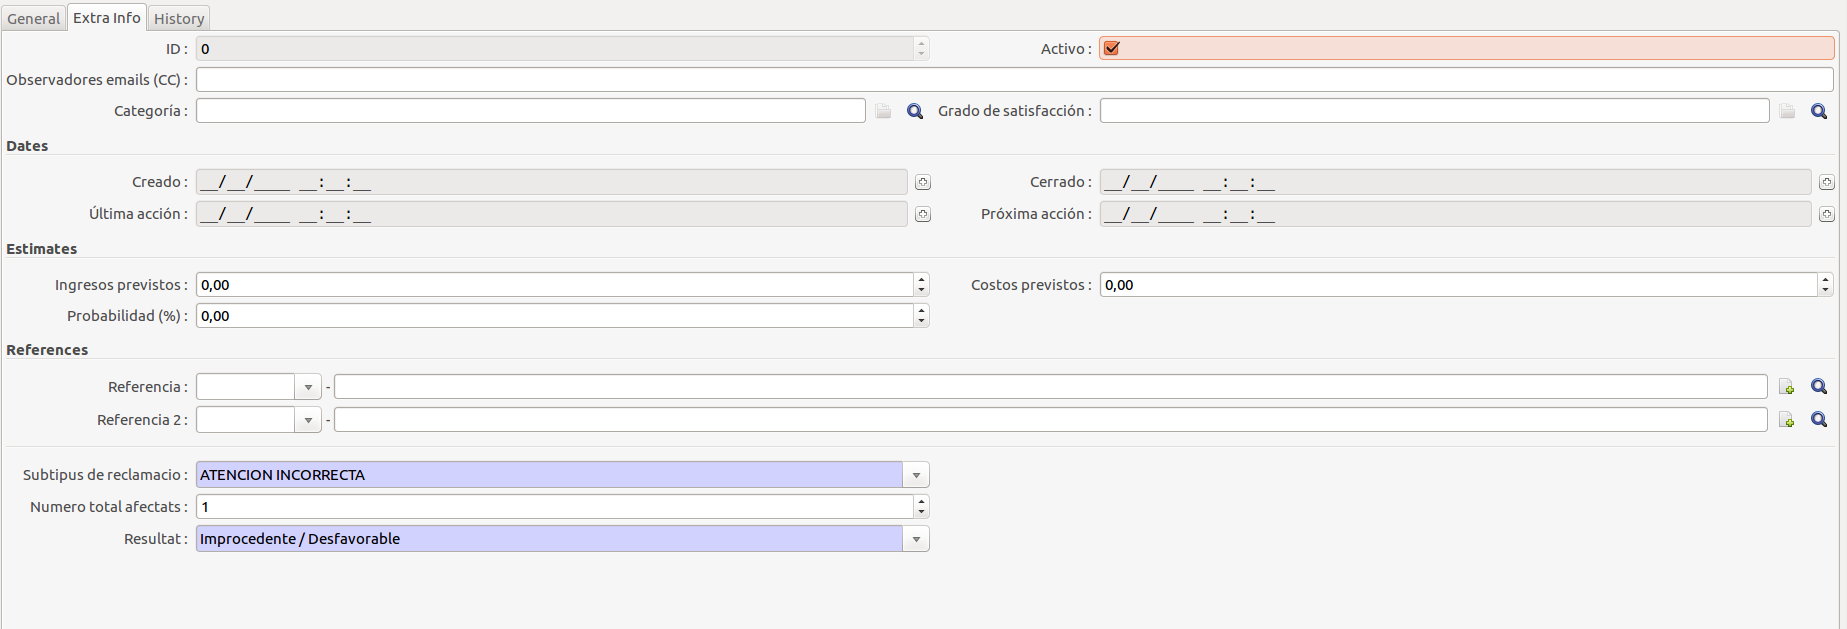
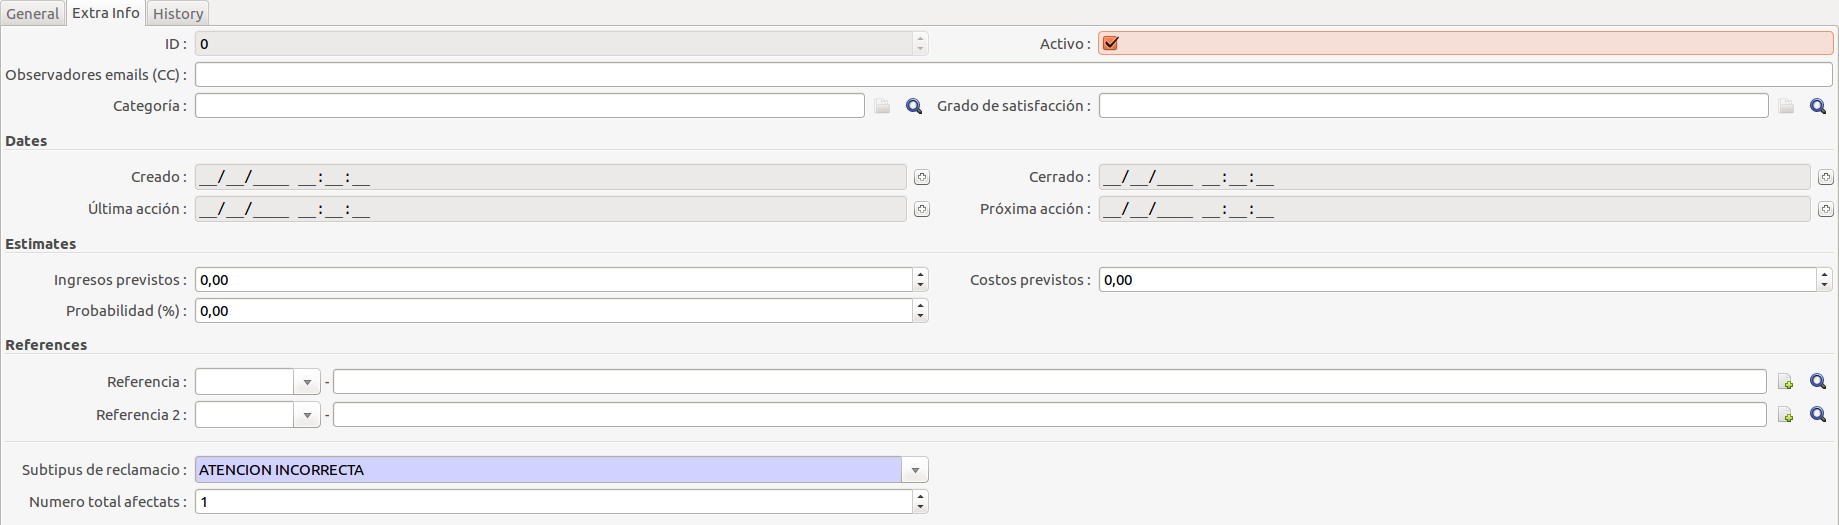
Moure Generacióde Informes a Administracio Publica

diff --git a/docs/base/atc.md b/docs/base/atc.md
@@ -36,13 +36,14 @@ requerida per la CNMC:
 
     * **Reclamant**: Agent que planteja la reclamació.
 
+    * **Resultat**: Resultat final de la reclamació.
+
 ![](_static/atc/camps_nous_general.png)
 
 
 * A la pestanya **Extra Info**:
     * **Número total afectats**: Numero total de cups afectades en la reclamació.
 
-    * **Resultat**: Resultat final de la reclamació.
 
     * **Subtipus**: Subtipus de la reclamació. Si n'hi ha varis s'indica el
         princpal.
@@ -58,37 +59,8 @@ automatitzada fitxers amb la informació sobre les reclamacions demanats per la
 CNMC. El format i la informació d'aquests fitxers segueixen les directrius
 definides en la circular 2/2016 mencionada anteriorment.
 
-Mitjançant la opció "Generate ATC Reports" s'obrirà un assitent per generar
-l'informe:
+El procediment complet per generar aquests informes es detalla en els apartats:
 
-![](_static/atc/menu_atc.png)
+ * Distribuidora -> Administració Pública -> CNMC -> Generació de Informes sobre Reclamacions de Consumidors
 
-
-
-
-Aquest assistent funciona de la següent manera:
-
-* Es selecciona el trimestre les reclamacions del qual seran incloses en
-    l'informe i es clica "Generar".
-
-![](_static/atc/assistent_inici.png)
-
-* Automàticament es generarà un fitxer '.csv' amb tota la informació sobre les
-    reclamacions. Aquest fitxer es pot obrir o guardar.
-
-![](_static/atc/assistent_final.png)
-
-* Al guardar el fitxer s'assignarà un nom amb el següent format:
-
-        "AAAA-MM-DD_electricidad_reclamaciones.csv"
-
-     on AAAA-MM-DD és la data en que s'ha generat l'informe. Aquest nom no s'ha
-     de modificar ja que és el demanat per la CNMC.
-
-
-Les reclamacions que son incloses en aquest informe son totes aquelles que no
-estiguin en estat 'esborrany' i que pertanyin al trimestre seleccionat.
-A més, l'any en que s'han obert aquestes reclamacions ha de ser l'any actual en
-cas de trimestres 1 i 2, i l'any anterior al actual en el cas de trimestre 3 i 4.    
-Es fa així per complir amb el requeriment de la CNMC de generar els informes
-del trimestre N en la primera quinzena trimestre N+2.
+ * Comercialitzadora -> Administració Pública -> CNMC -> Generació de Informes sobre Reclamacions de Consumidors
